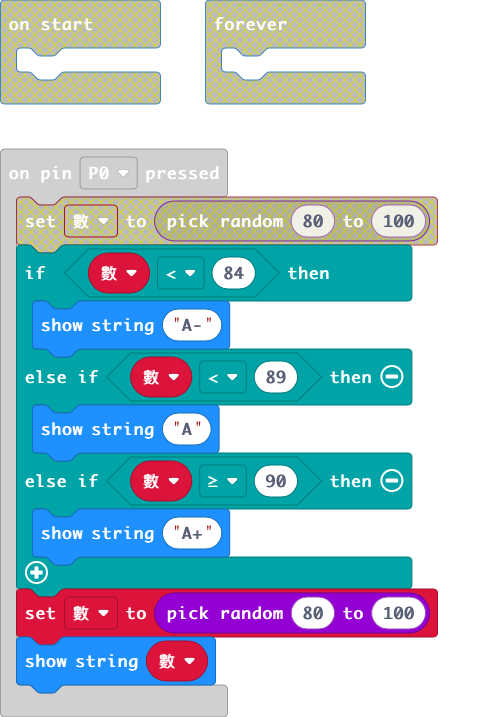
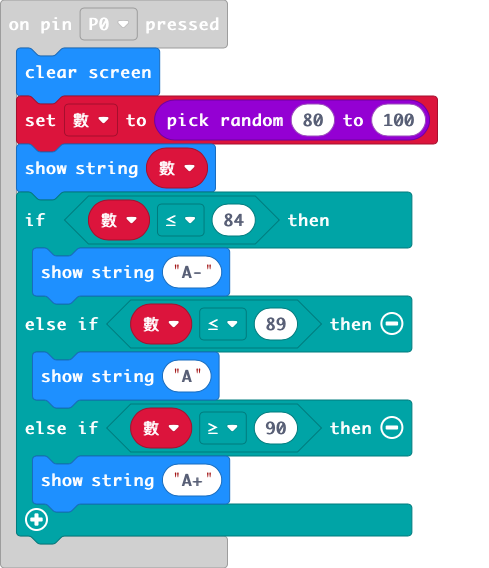
LAST

diff --git a/main.ts b/main.ts
@@ -1,10 +1,11 @@
 let 數 = 0
 input.onPinPressed(TouchPin.P0, function () {
+    basic.clearScreen()
     數 = randint(80, 100)
     basic.showString("" + (數))
-    if (數 < 84) {
+    if (數 <= 84) {
         basic.showString("A-")
-    } else if (數 < 89) {
+    } else if (數 <= 89) {
         basic.showString("A")
     } else if (數 >= 90) {
         basic.showString("A+")
